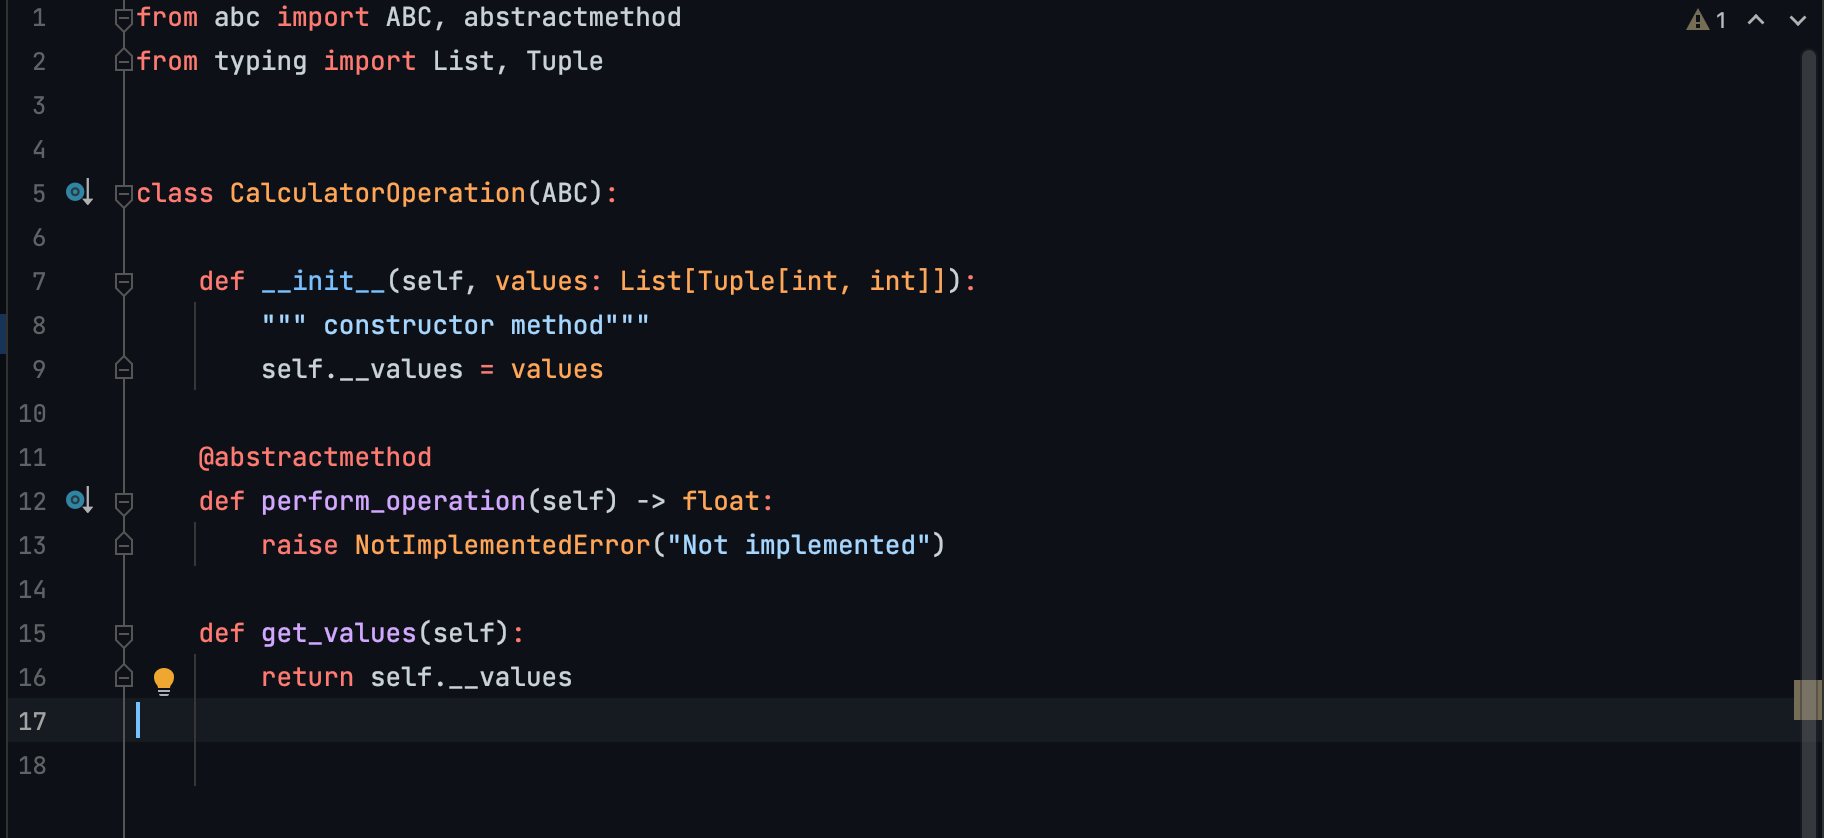
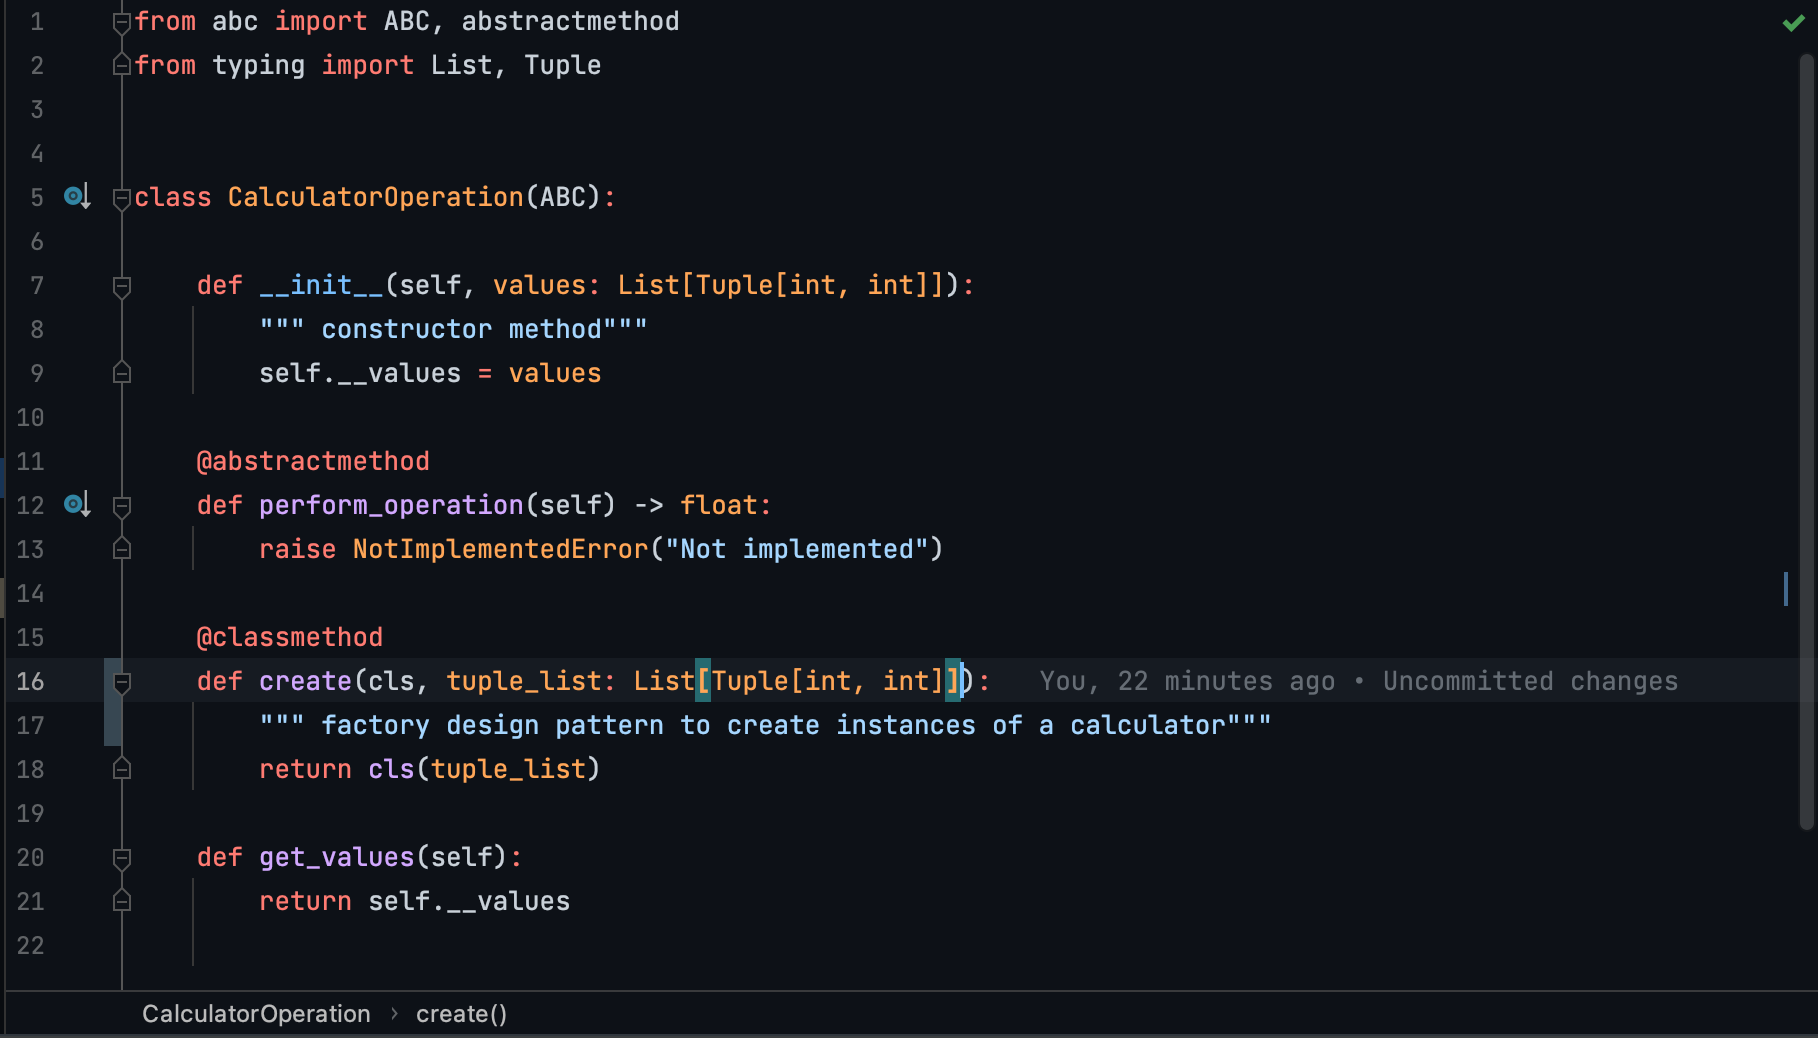
Adding in factory pattern for calculator class and updating tests to include new content on web page

diff --git a/app/templates/solid.html b/app/templates/solid.html
@@ -56,6 +56,26 @@
         <div class="col-8">
             <p class="h3">SOLID Terminology</p>
             <hr class="bg-danger border-2 border-top border-danger">
+            <figure class="figure">
+                <img src="static/images/CalculatorBaseOne.png" class="figure-img img-fluid rounded"
+                     alt="">
+                <figcaption class="figure-caption">Calculator Base Class.</figcaption>
+            </figure>
+            <figure class="figure">
+                <img src="static/images/Addition.png" class="figure-img img-fluid rounded"
+                     alt="">
+                <figcaption class="figure-caption">Addition implementation for the Calculator class.</figcaption>
+            </figure>
+            <figure class="figure">
+                <img src="static/images/Subtraction.png" class="figure-img img-fluid rounded"
+                     alt="">
+                <figcaption class="figure-caption">Subtraction implementation for the Calculator class.</figcaption>
+            </figure>
+            <figure class="figure">
+                <img src="static/images/Multiplication.png" class="figure-img img-fluid rounded"
+                     alt="">
+                <figcaption class="figure-caption">Multiplication implementation for the Calculator class</figcaption>
+            </figure>
             <div>
                 <dl>
                     <dt class="col-sm-3">Single Responsibility</dt>
@@ -77,11 +97,12 @@
                             </footer>
                         </blockquote>
                         This is demonstrated within our
-                        Calculator example, where we have three subclasses which all extend from CalculatorOperation
-                        (i.e. abstract base class/interface),
+                        Calculator example shown in the above figures, where we have three subclasses which all extend
+                        from CalculatorOperation
+                        (i.e. abstract base class),
                         which are Addition, Subtraction, and Multiplication. All these subclasses have only single
                         responsibility
-                        which is to either <strong>add, subtraction, or multiply</strong>, respectively. In essence,
+                        which is to either <strong>add, subtract, or multiply</strong>, respectively. In essence,
                         each class provides
                         its own functionality without affecting the other classes.
                     </dd>
@@ -101,16 +122,15 @@
                                     title="Source Title">https://www.oodesign.com/open-close-principle.html</cite>
                             </footer>
                         </blockquote>
-                        In our Calculator example, we provide an abstract base class called CalculatorOperation, which
+                        In our Calculator example shown above, we provide an abstract base class called
+                        CalculatorOperation, which
                         is initialized with a set of values.
                         From this, we provide a method called <strong>perform_operation</strong>, which is an abstract
                         method, whose functionality is defined by its subclasses.
-                        From the earlier discussed in Single Responsibility, the subclasses involve Addition,
-                        Subtraction, and Multiplication. The Addition class will perform the functionality for adding
-                        numbers,
-                        the subtraction class will perform the functionality for subtracting numbers, and lastly,
-                        multiplication will perform the functionality for d
-                        multiplying numbers. With this design approach of a common base class, we can easily extend this
+                        The Addition class will perform the functionality for adding
+                        numbers, the subtraction class will perform the functionality for subtracting numbers, and
+                        lastly, multiplication will perform the functionality for multiplying numbers. With this design
+                        approach of a common base class, we can easily extend this
                         to include other operations such as Division.
                     </dd>
                     <dt class="col-sm-3">Liskov Substitution</dt>
@@ -150,7 +170,7 @@
                         method.
                         This ensures each subclass is performing that operation that is intended to perform. The
                         subclass is not expected to implement/override
-                        any of the methods from its base class, if applicable.
+                        any of the other methods from its base class, if applicable.
                     </dd>
                     <dt class="col-sm-3">Dependency Inversion</dt>
                     <dd class="col-sm-9 p-2">
@@ -183,6 +203,31 @@
                  alt="...">
         </div>
     </div>
+
+    <div class="row">
+        <div class="col-8">
+            <p class="h3">Design Pattern</p>
+            <hr class="bg-danger border-2 border-top border-danger">
+            <figure class="figure">
+                <img src="static/images/CalculatorDesignPattern.png" class="figure-img img-fluid rounded"
+                     alt="">
+                <figcaption class="figure-caption">Factory Design Pattern for Calculator class.</figcaption>
+            </figure>
+            <div>
+                Design Patterns, as discussed in OOP Terminology section, is defined as a "general repeatable solution
+                to a commonly occurring
+                problem in software design" (https://sourcemaking.com/design_patterns). The design pattern that we will
+                be discussing is the factory design pattern, which
+                allows you to create any instance of a derived class. In the example, shown above, we can create a
+                Subtraction object in two ways.
+                The first way is to make a standard Python object, the second way is to use the <strong>create</strong>
+                method defined in the CalculatorOperation
+                class, which is a classmethod, and therefore passes an instance of the class, and then creates an object
+                that type.
+            </div>
+        </div>
+    </div>
+
 </div>
 <!-- Optional JavaScript -->
 <!-- jQuery first, then Popper.js, then Bootstrap JS -->

diff --git a/app/templates/oop.html b/app/templates/oop.html
@@ -33,13 +33,13 @@
 <div class="container p-3">
     <div class="row">
         <div class="col-8">
-            <p class="h3">Testing</p>
+            <p class="h3">OOP</p>
             <hr class="bg-danger border-2 border-top border-danger">
-            <p class="fw-normal"><strong>Testing</strong> is one of the most important benefits within the development cycle.
-                This is because it allows development teams/developers to find any bugs/defects before going into production, ensures quality code is written, and, lastly determines whether or not
-                both functional and business requirements are being met for the software being rolled out. A more precise definition of testing can be in the form of software testing, which is defined as
-                "...the process of evaluating and verifying that a software product or application does what it is supposed to do" (
-                code around modeling objects, which can illustrated through <em>classes</em> and <em>methods</em>.
+            <p class="fw-normal"><strong>Object Orientated Programming</strong> is a software technique that allows
+                software development teams/developers
+                to model their functional and business requirements (i.e code) based on objects is one of the most
+                important benefits within the development cycle, which are done via classes.
+                These are done via <em>classes</em> and <em>methods</em>.
                 Classes allow developers to build blueprints around the object(s) to be modeled (i.e. abstractions)
                 which
                 are defined via fields, instance methods, static methods, etc.

diff --git a/app/templates/index.html b/app/templates/index.html
@@ -38,10 +38,10 @@
                             <a class="nav-link" href="{{ url_for('content.show', page="oop") }}">OOP</a>
                         </li>
                         <li class="nav-item">
-                            <a class="nav-link" href="{{ url_for('content.show', page="solid") }}">SOLID</a>
+                            <a class="nav-link" href="{{ url_for('content.show', page="solid") }}">Solid</a>
                         </li>
                         <li class="nav-item">
-                            <a class="nav-link" href="{{ url_for('content.show', page="testing") }}">AAA</a>
+                            <a class="nav-link" href="{{ url_for('content.show', page="aaa") }}">AAA</a>
                         </li>
                     </ul>
                 </div>
@@ -105,7 +105,7 @@
                     </a>
                 </div>
                 <div class="carousel-item text-center">
-                    <a href="{{ url_for('content.show', page='testing') }}">
+                    <a href="{{ url_for('content.show', page='aaa') }}">
                         <img src="static/images/PythonUnitTesting.jpg" width="500" height="500" alt="...">
                     </a>
                 </div>

diff --git a/app/templates/terms.html b/app/templates/terms.html
@@ -334,9 +334,8 @@
                 <li>Dependency Inversion Principle</li>
             </ul>
             </p>
-            To learn more about SOLID and how we use it in our Calculator example, please refer to <a
-                href="https://refactoring.guru/design-patterns/chain-of-responsibility"
-                class="link-primary">here</a>.
+            To learn more about SOLID and how we use it in our Calculator example, please refer to SOLID section
+            on the navigation bar.
         </div>
     </div>
 </div>

diff --git a/tests/content_pages_test.py b/tests/content_pages_test.py
@@ -10,6 +10,10 @@ def test_request_index(client):
     assert b'<a class="nav-link" href="/github">GitHub</a>' in response.data
     assert b'<a class="nav-link" href="/python">Python/Flask</a>' in response.data
     assert b'<a class="nav-link" href="/ci-cd">CI/CD</a>' in response.data
+    assert b'<a class="nav-link" href="/terms">OOP Terminology</a>' in response.data
+    assert b'<a class="nav-link" href="/oop">OOP</a>' in response.data
+    assert b'<a class="nav-link" href="/solid">Solid</a>' in response.data
+    assert b'<a class="nav-link" href="/aaa">AAA</a>' in response.data
 
 
 def test_request_docker_page(client):
@@ -36,6 +40,30 @@ def test_request_ci_cd_page(client):
     """This makes the ci/cd page request"""
     response = client.get("/ci-cd")
     assert b'<a class="nav-link active" href="#">CI/CD</a>' in response.data
+
+
+def test_request_oop_terminology(client):
+    """This makes the oop terminology request"""
+    response = client.get("/terms")
+    assert b'<a class="nav-link active" href="#">OOP Terminology</a>' in response.data
+
+
+def test_request_oop(client):
+    """This makes the oop request"""
+    response = client.get("/oop")
+    assert b'<a class="nav-link active" href="#">OOP</a>' in response.data
+
+
+def test_request_solid(client):
+    """This makes the solid request"""
+    response = client.get("/solid")
+    assert b'<a class="nav-link active" href="#">Solid</a>' in response.data
+
+
+def test_request_aaa(client):
+    """This makes the AAA request"""
+    response = client.get("/aaa")
+    assert b'<a class="nav-link active" href="#">AAA</a>' in response.data
 
 
 def test_page_not_found_request(client):

diff --git a/tests/calculator_test.py b/tests/calculator_test.py
@@ -1,6 +1,7 @@
-"""This makes the calculator unit test setup"""
+"""This makes the calculator operation unit test setup"""
 
 from app.calculator.add import Addition
+from app.calculator.models import CalculatorOperation
 from app.calculator.multiply import Multiplication
 from app.calculator.subtract import Subtraction
 
@@ -33,3 +34,15 @@ def test_calculator_subtracts():
     result = subtraction.perform_operation()
     # Assert
     assert result == 6.0
+
+
+def test_calculator_factory_pattern():
+    """Tests that the factory pattern creates
+    any instance of the Calculator class can subtract a list of tuples correctly"""
+    # Arrange
+    values = [(1, 2), (3, 10)]
+    # Act
+    subtraction = Subtraction.create(values)
+    # Assert
+    assert isinstance(subtraction, CalculatorOperation)
+    assert isinstance(subtraction, Subtraction)

diff --git a/app/calculator/models.py b/app/calculator/models.py
@@ -13,7 +13,8 @@ class CalculatorOperation(ABC):
         raise NotImplementedError("Not implemented")
 
     @classmethod
-    def create(cls, tuple_list: tuple):
+    def create(cls, tuple_list: List[Tuple[int, int]]):
+        """ factory design pattern to create instances of a calculator"""
         return cls(tuple_list)
 
     def get_values(self):
